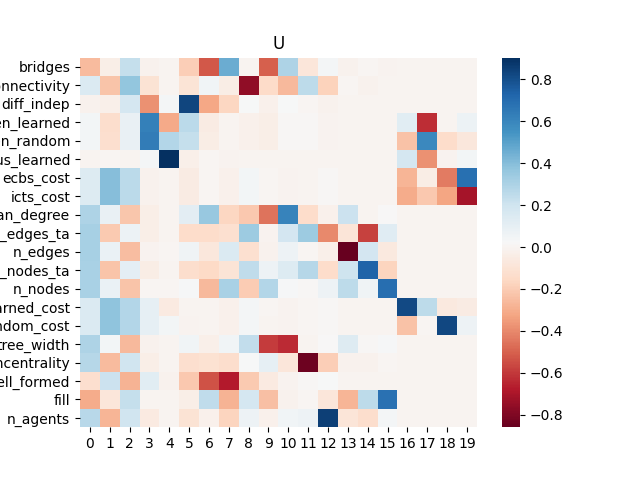
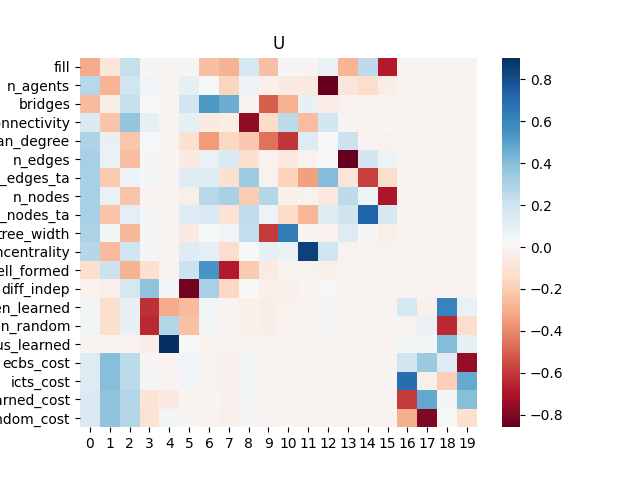
split up the evaluations in multiple, useful lists

Changed region(s): [[0.0, 0.0938, 0.75, 0.9062]]

diff --git a/scenarios/main_eval.py b/scenarios/main_eval.py
@@ -27,6 +27,17 @@ N_AGENTS = 'n_agents'
 # -------------------------
 BRIDGES = "bridges"
 CONNECTIVITY = "connectivity"
+MEAN_DEGREE = "mean_degree"
+N_EDGES = "n_edges"
+N_EDGES_TA = "n_edges_ta"
+N_NODES = "n_nodes"
+N_NODES_TA = "n_nodes_ta"
+SMALL_WORLD_OMEGA = "small_world_omega"
+SMALL_WORLD_SIGMA = "small_world_sigma"
+TREE_WIDTH = "tree_width"
+UNCENTRALITY = "uncentrality"
+WELL_FORMED = "well_formed"
+# -------------------------
 DIFF_INDEP = "diff_indep"
 DIFF_SIM_DECEN_LEARNED = "diff_sim_decen_learned"
 DIFF_SIM_DECEN_RANDOM = "diff_sim_decen_random"
@@ -41,21 +52,56 @@ ECBS_VERTEX_BLOCKS = "ecbs_vertex_blocks"
 ICTS_COST = "icts_cost"
 ICTS_EXPANDED_NODES = "icts_expanded_nodes"
 ICTS_SUCCESS = "icts_success"
-MEAN_DEGREE = "mean_degree"
-N_EDGES = "n_edges"
-N_EDGES_TA = "n_edges_ta"
-N_NODES = "n_nodes"
-N_NODES_TA = "n_nodes_ta"
 SIM_DECEN_LEARNED_COST = "sim_decen_learned_cost"
 SIM_DECEN_LEARNED_SUCCESS = "sim_decen_learned_success"
 SIM_DECEN_RANDOM_COST = "sim_decen_random_cost"
 SIM_DECEN_RANDOM_SUCCESS = "sim_decen_random_success"
-SMALL_WORLD_OMEGA = "small_world_omega"
-SMALL_WORLD_SIGMA = "small_world_sigma"
-TREE_WIDTH = "tree_width"
-UNCENTRALITY = "uncentrality"
 USEFULLNESS = "usefullness"
-WELL_FORMED = "well_formed"
+
+# params for the generation of scenarios
+scenario_params = [
+    GENERATOR,
+    FILL,
+    N_AGENTS
+]
+
+# evaluations from static analysis of the scenario or graph
+evaluations_pre = [
+    BRIDGES,
+    CONNECTIVITY,
+    MEAN_DEGREE,
+    N_EDGES_TA,
+    N_EDGES,
+    N_NODES_TA,
+    N_NODES,
+    # SMALL_WORLD_OMEGA,
+    # SMALL_WORLD_SIGMA,
+    TREE_WIDTH,
+    UNCENTRALITY,
+    WELL_FORMED
+]
+
+# evaluations after performing solving algorithms
+evaluations_post = [
+    DIFF_INDEP,
+    DIFF_SIM_DECEN_LEARNED,
+    DIFF_SIM_DECEN_RANDOM,
+    DIFFERENCE_SIM_DECEN_RADOM_MINUS_LEARNED,
+    # DIFFERENCE_ECBS_EN_MINUS_ICTS_EN,
+    ECBS_COST,
+    # ECBS_EDGE_BLOCKS,
+    # ECBS_EXPANDED_NODES,
+    ECBS_SUCCESS,
+    # ECBS_VERTEX_BLOCKS,
+    ICTS_COST,
+    # ICTS_EXPANDED_NODES,
+    ICTS_SUCCESS,
+    SIM_DECEN_LEARNED_COST,
+    SIM_DECEN_LEARNED_SUCCESS,
+    SIM_DECEN_RANDOM_COST,
+    SIM_DECEN_RANDOM_SUCCESS,
+    # USEFULLNESS,
+]
 
 
 def init_values_debug():
@@ -146,38 +192,7 @@ def make_full_df():
     n_agentss = np.linspace(low_agents, high_agents, n_n_agentss, dtype=int
                             )  # list of different numbers of agents we want
 
-    evaluations = [
-        BRIDGES,
-        CONNECTIVITY,
-        DIFF_INDEP,
-        DIFF_SIM_DECEN_LEARNED,
-        DIFF_SIM_DECEN_RANDOM,
-        DIFFERENCE_SIM_DECEN_RADOM_MINUS_LEARNED,
-        # DIFFERENCE_ECBS_EN_MINUS_ICTS_EN,
-        ECBS_COST,
-        # ECBS_EDGE_BLOCKS,
-        # ECBS_EXPANDED_NODES,
-        ECBS_SUCCESS,
-        # ECBS_VERTEX_BLOCKS,
-        ICTS_COST,
-        # ICTS_EXPANDED_NODES,
-        ICTS_SUCCESS,
-        MEAN_DEGREE,
-        N_EDGES_TA,
-        N_EDGES,
-        N_NODES_TA,
-        N_NODES,
-        SIM_DECEN_LEARNED_COST,
-        SIM_DECEN_LEARNED_SUCCESS,
-        SIM_DECEN_RANDOM_COST,
-        SIM_DECEN_RANDOM_SUCCESS,
-        TREE_WIDTH,
-        # SMALL_WORLD_OMEGA,
-        # SMALL_WORLD_SIGMA,
-        UNCENTRALITY,
-        # USEFULLNESS,
-        WELL_FORMED
-    ]
+    evaluations = evaluations_pre + evaluations_post
 
     experiment_matrix = {
         GENERATOR: generators,

diff --git a/scenarios/svd.py b/scenarios/svd.py
@@ -7,6 +7,31 @@ import pandas as pd
 import seaborn as sns
 from matplotlib import pyplot as plt
 
+from scenarios.main_eval import (evaluations_post, evaluations_pre,
+                                 scenario_params)
+
+
+def sort_cols_based_on_pre_post(cols):
+    cols_scen = []
+    cols_pre = []
+    cols_post = []
+    for c in cols:
+        if c in scenario_params:
+            cols_scen.append(c)
+        elif c in evaluations_pre:
+            cols_pre.append(c)
+        elif c in evaluations_post:
+            cols_post.append(c)
+        else:
+            assert False, "column must be in a list"
+    assert (len(cols) == len(cols_scen) + len(cols_pre) +
+            len(cols_post)), "All columns must end up somewhere"
+    cols_scen.sort()
+    cols_pre.sort()
+    cols_post.sort()
+    return cols_scen + cols_pre + cols_post
+
+
 if __name__ == "__main__":
     """Load pandas results from pkl file and perform a svd on the data"""
     parser = argparse.ArgumentParser()
@@ -28,12 +53,15 @@ if __name__ == "__main__":
     # changing dataframe ######################################################
     df_results.sort_index(inplace=True)
     cols = list(df_results.columns)
-    cols.sort()
+    cols = sort_cols_based_on_pre_post(cols)
     print(cols)
     text_cols = ["generator"]
     for c in cols:
         if c not in text_cols:
             df_results[c] = df_results[c].astype(float)
+    df_results = df_results[df_results.columns[list(map(
+        lambda c: list(df_results.columns).index(c), cols
+    ))]]
 
     # dropping ignored rows ###################################################
     df_results_clean = df_results.drop(labels=ignored_evaluations, axis=1)
